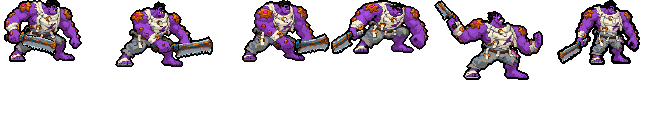
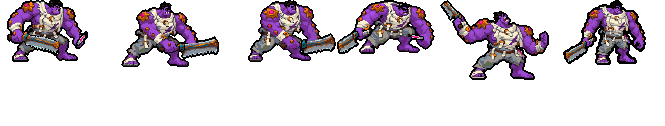
Dr. Mundo: Maximum Dosage shows the syringe
The 2026-10-19 check against League's clips: drmundo_spell4 jabs a syringe into him before the roar; the strips had
none. rig_drmundo.py draws one in his far fist on the crouching ult frames, in the design's own colours (the saw's
pale glass, the boils' magenta dose, dark steel needle): held up ready on frame 1, its needle in his side on frame 4.
Nothing of him moves; every other frame and tag is pixel-identical. The user: 「蒙多没问题」.

Changed region(s): [[0.3642, 0.0, 0.9712, 0.619], [0.1517, 0.0238, 0.3338, 0.5476], [0.0, 0.0, 0.1517, 0.5]]

diff --git a/tools/art/rig_drmundo.py b/tools/art/rig_drmundo.py
@@ -191,6 +191,40 @@ DEAD_DROP, DEAD_BOUNCE = 5, 2
 DEAD_MS = [100, 100, 60, 90, 60, 110, 150, 400]
 
 
+# R Maximum Dosage (League's drmundo_spell4: he jabs a syringe into himself, then roars): the strips had no syringe. One
+# is drawn in his far fist on the crouching frames, in the design's own colours (the saw's pale glass, the boils'
+# magenta for the dose, dark steel for the needle), from the fist's grip toward the tip: held up ready on ult_1, its
+# needle in his side on ult_4. Nothing of him moves.
+SYRINGE = {0: ((112, 151), (99, 161)), 3: ((116, 146), (113, 130))}     # ult frame -> (grip, needle tip), (row, col)
+GLASS, DOSE, STEEL, PLUNGER = (183, 220, 218), (241, 3, 103), (99, 108, 125), (132, 146, 157)
+
+
+def syringe(a, grip, tip):
+    """The syringe on native frame a: the plunger behind the grip, the barrel (glass round a magenta dose) from the grip
+    to 70 % of the way, the needle on to the tip; outlined."""
+    out = a.copy()
+    (gy, gx), (ty, tx) = grip, tip
+    H, W = a.shape[:2]
+    ys, xs = np.mgrid[0:H, 0:W]
+    vy, vx = ty - gy, tx - gx
+    L = np.hypot(vy, vx)
+    uy, ux = vy / L, vx / L
+    along = (ys + 0.5 - gy) * uy + (xs + 0.5 - gx) * ux
+    across = np.abs((ys + 0.5 - gy) * ux - (xs + 0.5 - gx) * uy)
+    plunger = (along >= -4) & (along < 0) & (across <= 1.6)
+    barrel = (along >= 0) & (along <= 0.7 * L) & (across <= 2.2)
+    dose = barrel & (across <= 1.0) & (along >= 1.5)
+    needle = (along > 0.7 * L) & (along <= L) & (across <= 0.7)
+    body = plunger | barrel | needle
+    ring = ndimage.binary_dilation(body, structure=np.ones((3, 3))) & ~body
+    out[ring] = (*OUTLINE, 255)
+    out[plunger] = (*PLUNGER, 255)
+    out[barrel] = (*GLASS, 255)
+    out[dose] = (*DOSE, 255)
+    out[needle] = (*STEEL, 255)
+    return out
+
+
 def lifted(a, k):
     """a moved k rows up (nothing wraps round)."""
     if k == 0:
@@ -209,6 +243,8 @@ def actions():
                for e in frames]
         if tag == "run":
             src = [(lifted(a, RUN_HOP[i]), ms) for i, (a, ms) in enumerate(src)]
+        if tag == "ult":
+            src = [(syringe(a, *SYRINGE[i]) if i in SYRINGE else a, ms) for i, (a, ms) in enumerate(src)]
         if tag == "dead":
             lie = src[DEAD_LIE][0]
             src = src[:DEAD_LIE] + [(lifted(lie, DEAD_DROP), 0), (lie, 0), (lifted(lie, DEAD_BOUNCE), 0)] + src[DEAD_LIE + 1:]
